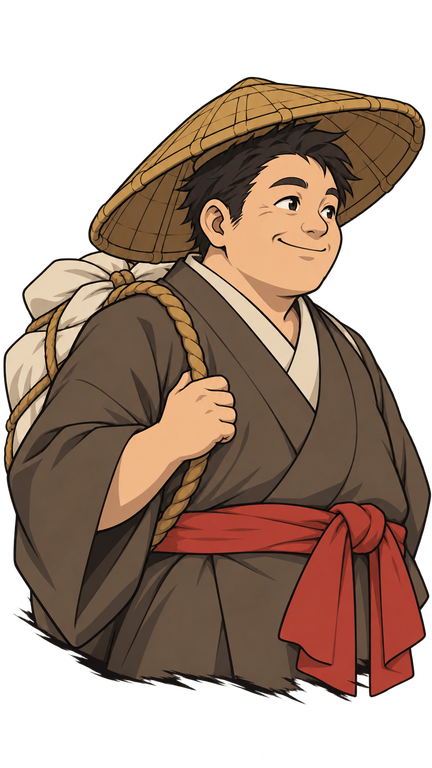
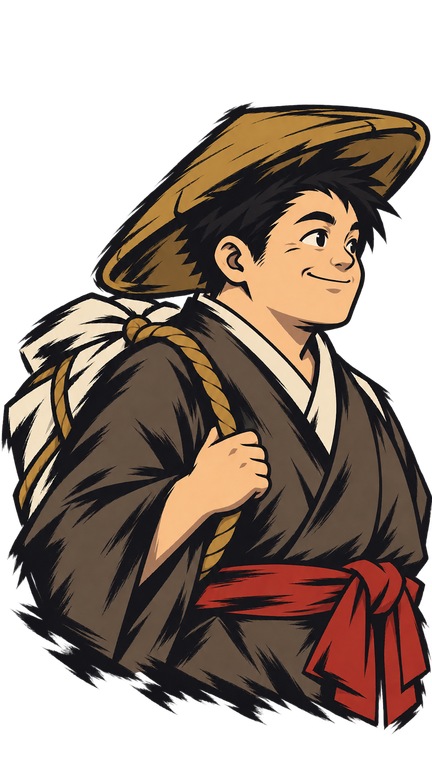
YOK-159-astra-shop-settled: merchant portrait take 3 (Ryo's style) accepted and imported; takes 1-3 kept

diff --git a/docs/design/screens/astra-brief-shop-dojo.md b/docs/design/screens/astra-brief-shop-dojo.md
@@ -112,6 +112,27 @@ One plate per run (Q10), 6 runs. S3 stays a single sheet because body and tail m
 
 After the plates land, Asset Smith runs the checks in "After the plates land" and resizes into `game/assets/generated/ui/`. The UI Designer then swaps them into `shop.tscn` in place of the greybox cabinet, tags, bubble, slip, portrait box and the shared backdrop.
 
+### S5 take 3, the accepted take (designer, 2026-10-20)
+
+The designer asked for the merchant to fit Ryo's style more. Take 1 used the S5 prompt above and came out soft anime. Take 2 added Ryo's portrait as the style image and was flatter, but still soft. Take 3 (accepted) attaches only `game/assets/generated/ui/ryo-portrait.png` (style) and take 2 (character); the costume sheet was dropped because it pulled the look soft. All three raw takes are kept in `docs/design/screens/astra/` (`merchant-portrait-take1/2/3.png`); `merchant-portrait.png` is take 3. This prompt supersedes S5 for any future merchant art, such as a story-card face:
+
+> Redraw the merchant in Image 2 in EXACTLY the drawing style of Image 1, as if the same artist drew both for the same game. Image 1 is the STYLE reference: the game's hero portrait. Study and copy its technique:
+> - very bold, heavy black ink-brush outlines that taper and vary in thickness, with sharp spiky stroke ends;
+> - shadows drawn as solid black ink shapes and rough dry-brush hatching strokes laid over a flat base colour, NOT as a darker or blended tone;
+> - hair as one solid black mass with sharp, spiky, tapered brush tips and almost no internal detail;
+> - the face in flat skin colour, drawn with a few confident black ink lines, a simple bold eye, a short nose line and no blush, gradient or soft shading;
+> - flat colour fills with only a few colours, high contrast, and a graphic manga-woodblock feel;
+> - a rough dry-brush torn cutout along the bottom edge, with ragged black brush streaks.
+> Image 2 is the CHARACTER reference: keep this exact merchant (his round friendly human face and warm half-smile, short round build, three-quarter pose facing right, and the hand holding the bundle's rope) and his costume: a wide conical straw hat tilted back, a dark brown kimono with a rice-paper inner collar, a wide shrine-red obi sash tied at the front, and a large rice-paper cloth bundle on his back on a thick rope. Only the drawing style changes.
+> Simplify as Image 1 does:
+> - the hat is one flat straw-coloured #B08A48 cone with 3 or 4 bold black brush lines and a black dry-brush shadow under the brim, with no basket weave;
+> - the kimono is flat brown #6E5A48 with folds and shadow shown by black brush strokes and hatching;
+> - the obi is flat shrine red #B5332B with black ink shadow strokes;
+> - the collar and bundle are flat rice paper #F1E8D4 with black ink line folds;
+> - the rope is a few bold ink-outlined twists with no fibre detail.
+> Colours limited to ink #1D1B21, straw #B08A48, brown #6E5A48, rice paper #F1E8D4, shrine red #B5332B and one flat warm skin tone. He is fully human: human ears and hands, no fur, no tail, no whiskers, no eye patches, no animal features. Standalone half-length portrait, head to waist, genuine transparent alpha background, aspect 9:16 portrait. No text, no numbers, no kanji, no other characters.
+> Avoid: soft anime shading, gradients, airbrush, blush, thin uniform linework, fine basket weave, rope fibres, fabric texture, photorealism, gloss, glow, cast shadow on the background, watermark, signature, extra fingers, any animal or tanuki trait, any resemblance to an existing franchise, artist or character.
+
 ## Dojo
 
 Layout facts (built screen, PR #201): the portrait box is about 410 x 360 at 1080p, left of the Rest and Training-trial scrolls, with the master's line box under it. Sheet covers about x 90 to 1830, so the backdrop again shows only as an edge band.

diff --git a/assets/specs/ui-screen-plates.md b/assets/specs/ui-screen-plates.md
@@ -135,7 +135,7 @@ Generated plate visually inspected: blank opaque paper, rolled ends, alpha exter
 | S3a | bubble body | ACCEPT | `speech-bubble.png` 640x200 (brief 640x320; the art is 3.3:1, so height follows the art) | 56/56/56/56 |
 | S3b | bubble tail | ACCEPT | `speech-bubble-tail.png` 128x160 | none |
 | S4 | ledger slip | ACCEPT (script-repaired) | `ledger-slip.png` 400x560 | 52/72/72/48 (brief's 28 leaves the pin in the stretch zone) |
-| S5 | merchant portrait | ACCEPT with note | `merchant-portrait.png` 432x768 | none |
+| S5 | merchant portrait | ACCEPT (take 3, designer) | `merchant-portrait.png` 432x768 | none |
 | B1 | shop backdrop | ACCEPT | `shop-backdrop.png` 1672x941 (opaque RGB, unchanged) | none |
 
 **S1 cabinet** (raw 1341x1173, cropped x 4..1337 to the exact 800:704 ratio, scale 0.6002). Body alpha 255, exterior 0; alpha bbox at saved size x 6..793, y 32..665. Measured at saved size, to place the 9 cells (a cell is the straw back panel above a board; items stand on the board top):
@@ -153,6 +153,8 @@ Generated plate visually inspected: blank opaque paper, rolled ends, alpha exter
 **S4 slip** (repaired; whole 1060x1484 canvas, scale 0.377). Paper bbox 29..373 x 29..533; inner ink border at x 41/361, y 42/520; pin x 334..360, y 40..65. Paper alpha 255 after the repair, centre flat (255 verified), exterior 0; the 1.1% partial pixels are torn-edge anti-aliasing in paper or ink colour. The pin sits in the top-right, so right >= 66 and top >= 68; the saved art carries 29 px of transparent padding, so the brief's 28 would leave the pin in the stretch zone. Stretch test at 400x560, 260x360, 300x500 and 480x700 is clean with 52/72/72/48. Honest record: the flat centre, opaque paper and fringe clearing are the script's work, not Astra's; the torn edge, inner border and pin are Astra's.
 
 **S5 portrait** (raw 941x1672, whole canvas, scale 0.459). Fully human (straw hat, brown kimono, red sash, bundle), no ear, tail, whisker, leaf or fur tell; costume matches the brief. His near hand holds the bundle rope instead of being raised in welcome: a variation, not a retake. A rough dark brush cut runs along the hem, as the "rough ink lower cut" intends. About 10% transparent padding at the top and 8% at the bottom. Rendering is a little softer (hat and kimono carry two-tone shading) than `ryo-portrait.png`; acceptable.
+
+**S5 retakes (designer, 2026-10-20).** The designer asked for the merchant to match Ryo's style. Take 2 (style image `ryo-portrait.png` plus take 1) was flatter but still soft. Take 3 (style image `ryo-portrait.png` plus take 2, with no costume sheet) was ACCEPTED by the designer: black dry-brush hatching for shadows, a flat hat with bold strokes, spiky black hair, heavy tapered outlines and a ragged lower edge, as in Ryo's portrait. It is still fully human, with the same costume and pose. Raw 941x1672, re-imported to 432x768 with the same method (alpha >= 246 snapped). Edge scan: 42k partial-alpha pixels, nearly all intended dry-brush edges; 981 coloured partial pixels, at take 1's level and not visible at 432x768. All three raw takes are kept, and the prompt is in the brief under "S5 take 3".
 
 **B1 backdrop** (1672x941, opaque). Lantern stall at left (blank paper lanterns, blank noren cloth, gourds, bundles), bamboo framing both sides, torii and waterfall at far right, moon at x 65-76%, y 2-17% (upper right, not centre-left, so the sheet heading is clear). Centre band (x 30-65%) is mid-dark forest and mist with low-contrast detail; the brightest lights (lanterns) sit in the left edge band x 4-23%, mostly under the scroll sheet's left edge. No characters, animals, masks or readable signs. The calm-centre check is a visual judgement, not a measured contrast.
 

diff --git a/docs/decision-log.md b/docs/decision-log.md
@@ -224,3 +224,4 @@ Build week 2 of 5 (first commit 2026-10-06). Milestones in Linear: W1 ends 10-10
 - **Stages first pass (YOK-150/151/152), approved 2026-10-20:** 195 credits on Meshy, Shrine Gate 66 (S1-S8; S9 snowflake sheet not approved, plain quads), Riverbank 69 (S1-S9; no bank lanterns, spec default), Tea House 60 (S1-S10). Tea House seasons change on beats, round start only; wiring is a gameplay follow-up. Palette added to `style.md`: snow #A9B4C8, water teal #3E7F86 (same as Kappa spark teal), brown #6E5A48, spring pink #E8A6B0. Take cap 3 per asset, never above 195 total without asking. **Status: jobs not run**, the Meshy MCP was unavailable to the asset-smith session, 0 credits spent.
 - 2026-10-20 YOK-109 / YOK-163 dojo pass (branch): the designer chose mockup parity, so the trial card has a special selector (Left/Right, A/D, bumpers, D-pad; skips specials with no authored trial or at top level) and 3 attempt pips; this replaces the YOK-98 provisional "first trial in slot order, no picker". The trial card names the special by its display name (YOK-163). Esc / B still goes to the title (GameFlow ReturnToTitle), so the footer keeps "Title"; the mockup's "Esc = map, only before a choice" needs a leave-the-node API and waits on the designer. The dojo forecast line says "Training {move} to Lv {n} raises this copy" only while n <= 2 (T4: the copy never passes Lv 2), not the mockup's fixed "Lv 3".
 - 2026-10-20 YOK-159 Astra shop plates accepted (asset-smith): S1-S5 and B1 ACCEPT and imported to `game/assets/generated/ui/` (Pillow Lanczos). S4 is a script repair of take 2. Strict misses recorded: cabinet row 3 is about 20% shorter, S2 and S4 need wider nine-slice margins than the brief. Astra licence still unknown; costs not reported by Codex. Details in `assets/specs/ui-screen-plates.md`.
+- 2026-10-20 YOK-159 merchant portrait (designer): take 3 of 3 accepted, restyled to match `ryo-portrait.png` (black dry-brush hatching, flat shapes, heavy outlines). Ryo's portrait is the style reference for screen character art. Astra was run by the main session through `codex exec` on the designer's say-so.
